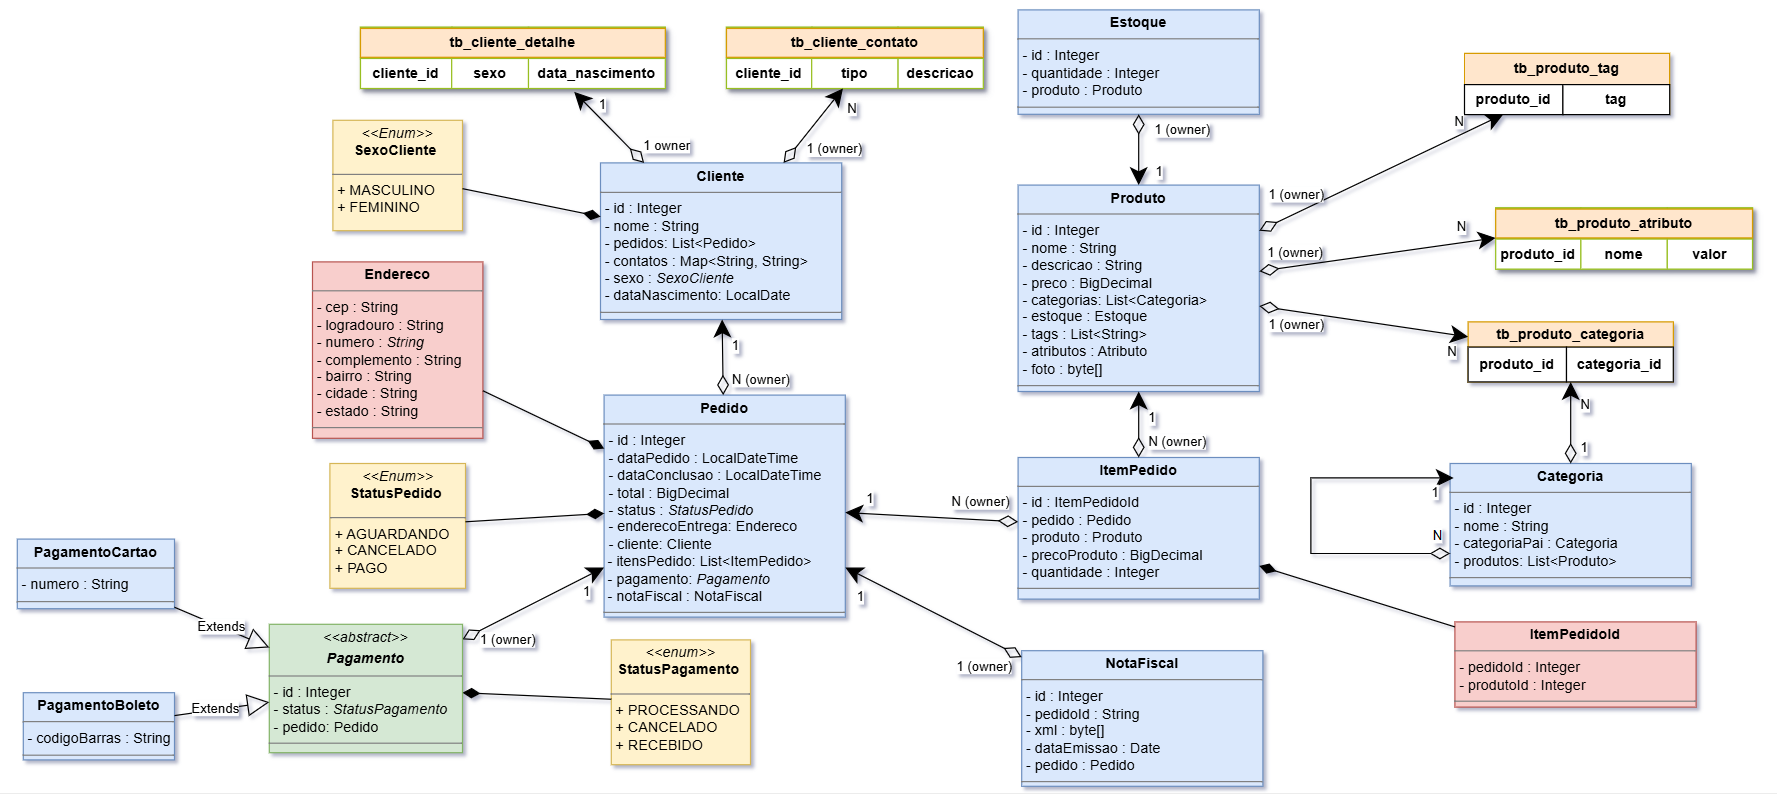
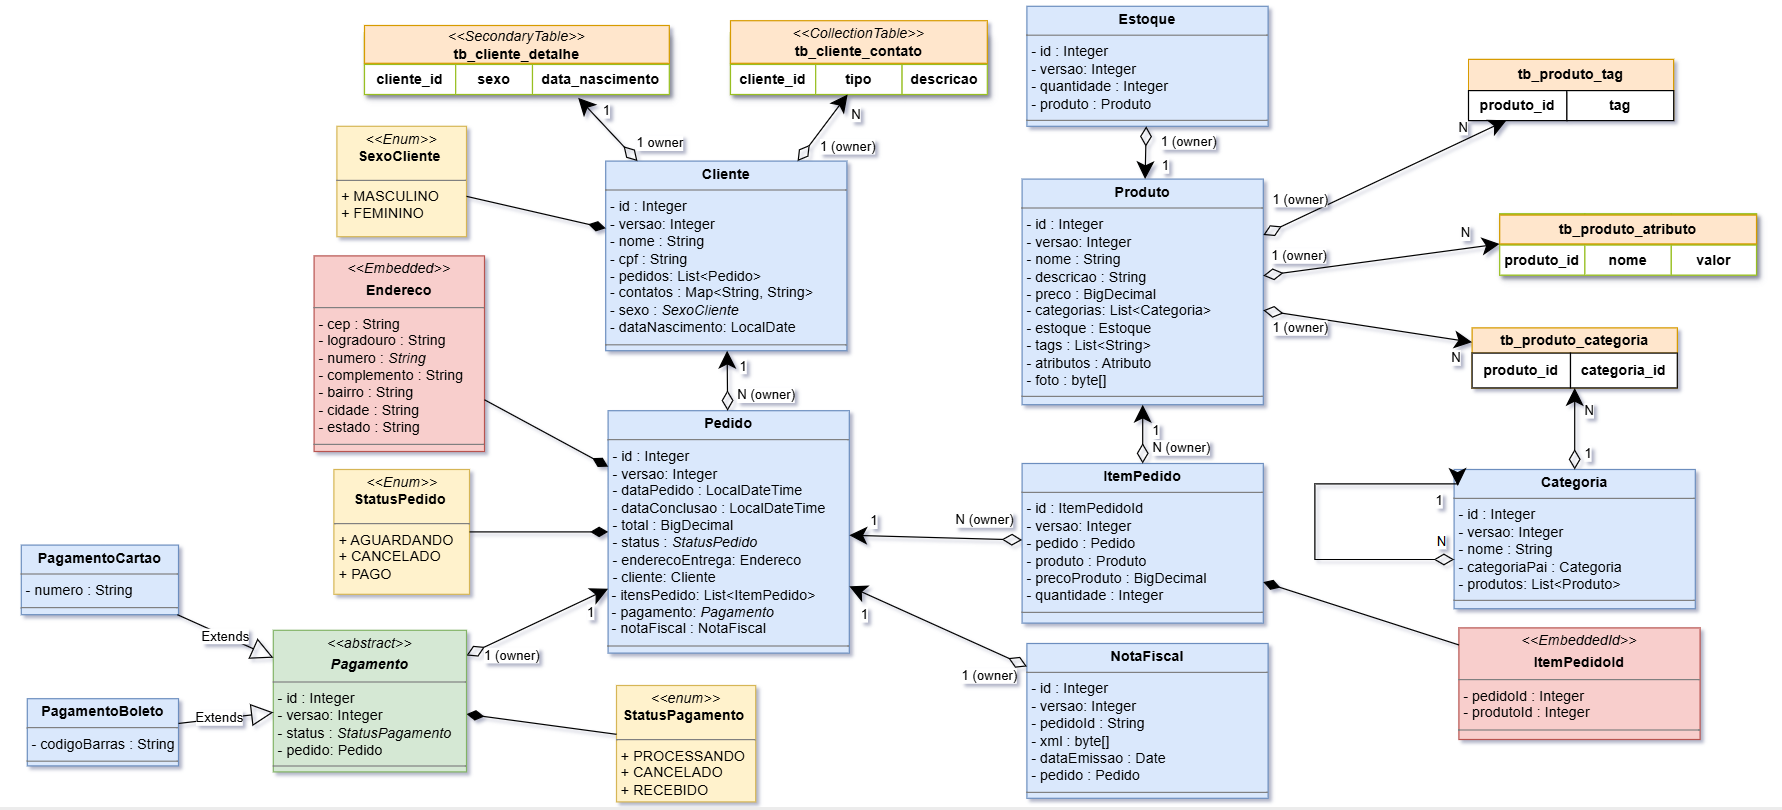
Lock com JPQL e Criteria API

diff --git a/src/test/java/com/especialista/junit/_15_Concorrencia_e_Locking/_8_Usando_Lock_com_JPQL_e_Criteria_API.java b/src/test/java/com/especialista/junit/_15_Concorrencia_e_Locking/_8_Usando_Lock_com_JPQL_e_Criteria_API.java
@@ -1,0 +1,158 @@
+package com.especialista.junit._15_Concorrencia_e_Locking;
+
+import com.especialista.jpa._7_mapeandoEntidadesParaGeracaoDeDDL.modelos.Pedido_;
+import com.especialista.jpa._7_mapeandoEntidadesParaGeracaoDeDDL.modelos.Produto;
+import org.junit.AfterClass;
+import org.junit.Assert;
+import org.junit.BeforeClass;
+import org.junit.Test;
+import org.slf4j.Logger;
+import org.slf4j.LoggerFactory;
+
+import javax.persistence.EntityManager;
+import javax.persistence.EntityManagerFactory;
+import javax.persistence.LockModeType;
+import javax.persistence.Persistence;
+import javax.persistence.criteria.CriteriaBuilder;
+import javax.persistence.criteria.CriteriaQuery;
+import javax.persistence.criteria.Root;
+
+public class _8_Usando_Lock_com_JPQL_e_Criteria_API {
+    protected static final Logger logger = LoggerFactory.getLogger(_8_Usando_Lock_com_JPQL_e_Criteria_API.class.getSimpleName());
+
+    protected static EntityManagerFactory entityManagerFactory;
+
+    @Test
+    public void usando_LockPessimista_LockModeType_Pessimistic_WRITE_e_Pessimistic_READ() {
+
+        Runnable run0 = () -> {
+            EntityManager entityManager = entityManagerFactory.createEntityManager();
+            entityManager.getTransaction().begin();
+
+            log("RUN 0: Iniciando...");
+
+            String novaDescricao = "Descrição detalhada. CTM: " + System.currentTimeMillis();
+
+            log("RUN 0: vai carregar o Produto...");
+            Produto produto = entityManager
+                .createQuery("SELECT p FROM Produto p WHERE p.id = 1", Produto.class)
+                .setLockMode(LockModeType.PESSIMISTIC_READ)
+                .getSingleResult();
+
+            log("RUN 0: vai alterar o Produto...");
+            produto.setDescricao(novaDescricao);
+
+            log("RUN 0: vai esperar por 5 segundos...");
+            esperar(5);
+
+            try {
+                log("RUN 0: vai confirmar a transação");
+                entityManager.getTransaction().commit();
+            } catch (Exception e) {
+                log("ERRO: " + e.getMessage());
+                throw e;
+            } finally {
+                entityManager.close();
+                log("RUN 0: concluído...");
+            }
+        };
+
+        Runnable run1 = () -> {
+            EntityManager entityManager = entityManagerFactory.createEntityManager();
+            entityManager.getTransaction().begin();
+
+            CriteriaBuilder criteriaBuilder = entityManager.getCriteriaBuilder();
+            CriteriaQuery<Produto> query = criteriaBuilder.createQuery(Produto.class);
+            Root<Produto> root = query.from(Produto.class);
+            query.where(criteriaBuilder.equal(root.get(Pedido_.id),1));
+
+            log("RUN 1: Iniciando...");
+
+            String novaDescricao = "Descrição massa. CTM: " + System.currentTimeMillis();
+
+            log("RUN 1: vai carregar o Produto...(vai travar aqui até a RUN 0 comitar e liberar o lock)");
+            Produto produto =entityManager
+                .createQuery(query)
+                .setLockMode(LockModeType.PESSIMISTIC_WRITE)
+                .getSingleResult();
+
+            log("RUN 1: vai alterar o Produto...");
+            produto.setDescricao(novaDescricao);
+
+            log("RUN 1: vai esperar por 2 segundos...");
+            esperar(2);
+
+            try {
+                log("RUN 1: vai confirmar a transação");
+                entityManager.getTransaction().commit();
+
+            } catch (Exception e) {
+                log("ERRO: " + e.getMessage());
+                throw e;
+            } finally {
+                entityManager.close();
+                log("RUN 1: concluído...");
+            }
+
+        };
+
+        Thread t0 = new Thread(run0);
+        Thread t1 = new Thread(run1);
+
+        t0.start();
+
+        log("esperando 1 segundo...");
+        esperar(1);
+
+        t1.start();
+
+        try {
+            log("Juntando com a Thread-0");
+            t0.join();   // faz a thread atual[main] esperar outra thread[Thread-0] terminar
+            log("Continuando a execução");
+
+
+            log("Juntando com a Thread-1");
+            t1.join();   // faz a thread atual[main] esperar outra thread[Thread-1] terminar
+            log("Continuando a execução");
+
+        } catch (InterruptedException e) {
+            throw new RuntimeException(e);
+        }
+
+
+        EntityManager entityManager = entityManagerFactory.createEntityManager();
+        Produto produto = entityManager.find(Produto.class, 1);
+
+        Assert.assertTrue(produto.getDescricao().startsWith("Descrição massa"));
+
+        entityManager.close();
+        log("Encerrando método...");
+    }
+
+
+    private static void log(Object obj, Object... args) {
+        logger.info("LOG [" + Thread.currentThread().getName() + "]: " + obj);
+    }
+
+    private static void esperar(int segundos) {
+        try {
+            Thread.sleep(segundos * 1000L);
+        } catch (InterruptedException e) {
+            throw new RuntimeException(e);
+        }
+    }
+
+    @BeforeClass
+    public static void setUpBeforeClass() { // executa primeiro
+        System.out.println(">>> Iniciando o EntityManagerFactory...");
+        entityManagerFactory = Persistence.createEntityManagerFactory("EspecialistaJPADB-PU");
+
+    }
+
+    @AfterClass
+    public static void tearDownAfterClass() { // executa por ultimo
+        System.out.println(">>> Finalizando o EntityManagerFactory...");
+        entityManagerFactory.close();
+    }
+}
